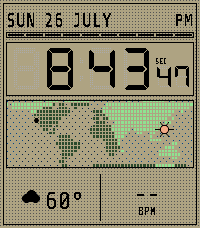
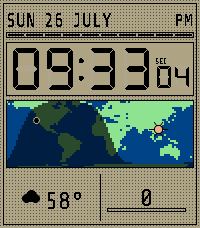
Complete screenshot gallery with positive-dots; refresh positive-solid

diff --git a/README.md b/README.md
@@ -10,7 +10,7 @@ Each theme in both map styles (filled continents and dot matrix):
 | Positive | Negative | Mono | Accent |
 |:---:|:---:|:---:|:---:|
 | ![Positive, filled](screenshots/positive-solid.png) | ![Negative, filled](screenshots/negative-solid.png) | ![Mono, filled](screenshots/mono-solid.png) | ![Accent, filled](screenshots/accent-solid.png) |
-| — | ![Negative, dots](screenshots/negative-dots.png) | ![Mono, dots](screenshots/mono-dots.png) | ![Accent, dots](screenshots/accent-dots.png) |
+| ![Positive, dots](screenshots/positive-dots.png) | ![Negative, dots](screenshots/negative-dots.png) | ![Mono, dots](screenshots/mono-dots.png) | ![Accent, dots](screenshots/accent-dots.png) |
 
 ## Layout (native pixels)
 
